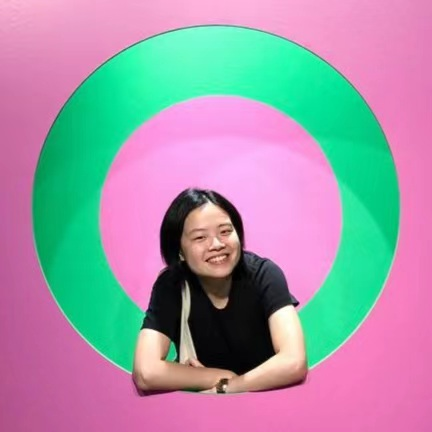
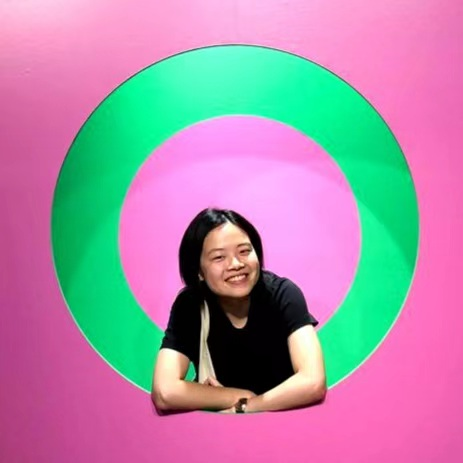
complete edit about component

diff --git a/portfolio-minimal/content/sections/about/about.md b/portfolio-minimal/content/sections/about/about.md
@@ -1,14 +1,14 @@
 ---
-imageSrc: "../../images/charles-deluvio-DgoyKNgPiFQ-unsplash.jpg"
-imageAlt: "About Gatsby Theme Portfolio Minimal"
+imageSrc: "../../images/Yinmu.jpeg"
+imageAlt: "About Yinmu"
 ---
 
-Portfolio Minimal is a Gatsby Theme that creates outstanding one-pages portfolio within minutes!
+Thanks for visiting! I'm Yinmu, a Software Developer, a Langauge Teacher and Mum to a cheeky kitty baby called Mochi. Would you like a cuppa coffee? ☕
 
-It has predefined sections for your bio, skills, projects, and contact details. If you are a writer on Medium, you can integrate your latest articles in a distinct section as well. While building the theme, I tried to keep the setup as simple as possible while keeping everything configurable if you like to.
+I have been working as a teacher for a few years before becoming a Software Developer, thanks to the Pandemic in 2020/2021 when I explored and used a wide range of EdTech to engage students online. I soon discovered that I would love to build something - something interesting, helpful and can make complex processes faster, easier and more convenient.
 
-Using theme composition, you can easily customize the CSS theme to your own preferences - e.g. change colors, fonts, etc.
+I then learned how to code, and still learning more toolings to develop better applications. I am so happy that I find something I enjoy doing, and I cannot wait to build things together!👩🏻💻
 
-Last but not least, it has some cool features you can opt-in to: Dark Mode, Splash Screen, Cookie Banner, and more to find out :)
+Visit my <a href="https://github.com/ymcodespace" aria-label="External Link"><u>Github</u></a>, or add me on <a href="https://www.linkedin.com/in/yinmu-liu/" aria-label="External Link"><u>Linkedin</u></a>!
 
-Photo by <a href="https://unsplash.com/@charlesdeluvio?utm_source=unsplash&utm_medium=referral&utm_content=creditCopyText" target="_blank" rel="nofollow noopener noreferrer" aria-label="External Link"><u>Charles Deluvio</u></a> on Unsplash
+Oh, by the way, Mochi is here. See if you can catch him 😉.
